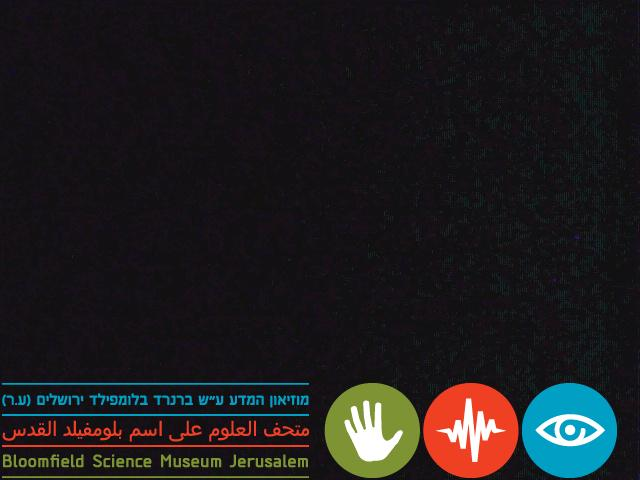
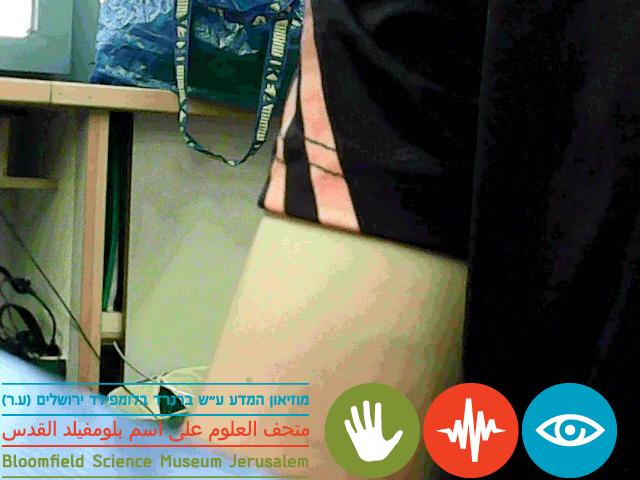
working version, everything is ready to send back sms to the client (except for the class that does the actual listening to the sms)

diff --git a/main.py b/main.py
@@ -16,7 +16,7 @@ from uploadOneFile import uploadToGoogleDriveServerWithDaemon
 from basic_html_server import init_server_on_different_thread, get_download_url, close_server
 import threading
 
-current_image = camera_imgtk = downtext_frame = cap = None
+current_image = camera_imgtk = camera1_imgtk = camera2_imgtk = downtext_frame = cap = None
 current_id, seconds_since_last_snapshot, current_clock_cicle, frames_left_to_camera_png = 0, 0, 0, 0
 
 
@@ -45,7 +45,7 @@ def init_clock():
     root.after(TIME_CLOCK_CICLE_MS, clock)
 
 def init_gui():
-    global current_id, root, picture_streaming_label, preview_pics_canvases, preview_frame, camera_imgtk, downtext_frame
+    global current_id, root, picture_streaming_label, preview_pics_canvases, preview_frame, camera_imgtk, camera1_imgtk, camera2_imgtk, downtext_frame
 
 
     # load next id
@@ -77,7 +77,7 @@ def init_gui():
         pic_canvas.grid(row = index, column = 0, sticky = 'N')
         preview_pics_canvases.append(pic_canvas)
 
-    for img_id, preview_canvas in zip(reversed(range(current_id)), reversed(preview_pics_canvases)):
+    for img_id, preview_canvas in zip(reversed(range(current_id)),preview_pics_canvases):
         print "img_id is", img_id
         preview_canvas.showImageFromId(img_id)
 
@@ -89,6 +89,17 @@ def init_gui():
     camera_png = Image.open(PATH_CAMERA_PICTURE)
     camera_resized = camera_png.resize(SIZE_STREAMING, Image.ANTIALIAS)
     camera_imgtk = ImageTk.PhotoImage(camera_resized)
+    camera_png.close()
+
+    # prepare the camera animation
+    camera_png = Image.open(PATH_CAMERA_PICTURE1)
+    camera_resized = camera_png.resize(SIZE_STREAMING, Image.ANTIALIAS)
+    camera1_imgtk = ImageTk.PhotoImage(camera_resized)
+    camera_png.close()
+
+    camera_png = Image.open(PATH_CAMERA_PICTURE2)
+    camera_resized = camera_png.resize(SIZE_STREAMING, Image.ANTIALIAS)
+    camera2_imgtk = ImageTk.PhotoImage(camera_resized)
     camera_png.close()
 
 
@@ -106,9 +117,10 @@ def init_camera():
 def show_frame(camera = False):
     global current_image, picture_streaming_label, frames_left_to_camera_png
     if frames_left_to_camera_png > 0:
+        camera_tk = camera2_imgtk if frames_left_to_camera_png % 2 else camera1_imgtk
         frames_left_to_camera_png -= 1
-        picture_streaming_label.imgtk = camera_imgtk
-        picture_streaming_label.configure(image=camera_imgtk)
+        picture_streaming_label.imgtk = camera_tk
+        picture_streaming_label.configure(image=camera_tk)
         return
 
     _, frame = cap.read()
@@ -140,9 +152,11 @@ def take_snapshot():
     background.paste(foreground, (posx,  posy), foreground)
     background.save(filename)
 
-
+    widget_id = get_view_id_from_picture_id(current_id)
     print filename
-    print get_download_url(current_id)
+    print get_download_url(current_id), "is on preview id", widget_id
+    print "if client will send SMS with number", widget_id, "he will get the path - "
+    print revert_get_html_path_from_widget_id(widget_id)
 
     # update it on the screen
     update_screen_picture_added(current_id) # last picture taken
@@ -167,19 +181,22 @@ def update_screen_picture_added(picture_id):
     global preview_pics_canvases
     w,h = SIZE_PREVIEW
 
-    for index in range(NUMBER_OF_PREVIEW_PICS - 1): # without the last one
+    for index in reversed(range(1, NUMBER_OF_PREVIEW_PICS)): # without the first one
         fr_canvas = preview_pics_canvases[index]
-        sc_canvas = preview_pics_canvases[index + 1]
+        sc_canvas = preview_pics_canvases[index - 1]
         fr_canvas.mirrorizeOtherPP(sc_canvas)
 
-    canvas = preview_pics_canvases[-1] # last one
+    canvas = preview_pics_canvases[0] # last one
     canvas.showImageFromId(picture_id)
 
+def revert_get_html_path_from_widget_id(widget_id):
+    cur_empty_widget = get_view_id_from_picture_id(current_id)
+    if cur_empty_widget < widget_id: cur_empty_widget += (NUMBER_OF_PREVIEW_PICS + 1)
+    offset = cur_empty_widget - widget_id
+    img_possible_id = current_id - offset
+    # possible because there is no guarantee that the user didn't wait half an hour before sending the SMS
 
-
-
-    pass # TODO: continue
-
+    return get_download_url(img_possible_id)
 
 def quit_everything(event):
     root.quit()

diff --git a/basic_html_server.py b/basic_html_server.py
@@ -7,13 +7,17 @@ import threading
 import socket
 
 HOST_NAME = '' # that means localhost
-MY_IP = ""
+EXTERNAL_IP = ""
+INTERNAL_IP = ""
 
 httpd = None # object to use on close
 
 ''' string!! '''
 def get_ip():
-    return MY_IP
+    global EXTERNAL_IP, INTERNAL_IP
+    if EXTERNAL_IP:
+        return EXTERNAL_IP
+    return INTERNAL_IP
 
 ''' integer!! '''
 def get_port():
@@ -21,11 +25,12 @@ def get_port():
 
 ''' string!! '''
 def get_download_url(img_id):
-    return "http://" + MY_IP + ":" + str(PORT_NUMBER) + "/" + str(img_id)
+    ip = EXTERNAL_IP if EXTERNAL_IP else INTERNAL_IP
+    return "http://" + ip + ":" + str(PORT_NUMBER) + "/" + str(img_id) + ".jpg"
 
 def refresh_my_ip():
-    global MY_IP
-    MY_IP = ipgetter.myip()
+    global EXTERNAL_IP
+    EXTERNAL_IP = ipgetter.myip()
 
 def to_real_path(path_from_client):
     return "pic/" + path_from_client
@@ -76,12 +81,13 @@ class MyHandler(BaseHTTPServer.BaseHTTPRequestHandler):
         print "file %s has finished serving!" % (filepath)
 
 def init_server():
-    global httpd, MY_IP
+    global httpd, EXTERNAL_IP, INTERNAL_IP
 #    MY_IP = ipgetter.myip()
     server_class = BaseHTTPServer.HTTPServer
     httpd = server_class((HOST_NAME, PORT_NUMBER), MyHandler)
-    print time.asctime(), "Server Starts - %s %s:%s" % (HOST_NAME, MY_IP, PORT_NUMBER)
-    print "local ip: %s" % [(s.connect(('8.8.8.8', 80)), s.getsockname()[0], s.close()) for s in [socket.socket(socket.AF_INET, socket.SOCK_DGRAM)]][0][1]
+    print time.asctime(), "Server Starts - %s %s:%s" % (HOST_NAME, EXTERNAL_IP, PORT_NUMBER)
+    INTERNAL_IP = [(s.connect(('8.8.8.8', 80)), s.getsockname()[0], s.close()) for s in [socket.socket(socket.AF_INET, socket.SOCK_DGRAM)]][0][1]
+    print "local ip: %s" % INTERNAL_IP
     try:
         httpd.serve_forever()
     except KeyboardInterrupt:
@@ -98,5 +104,5 @@ def close_server():
     if httpd is None: return
 
     httpd.server_close()
-    print time.asctime(), "Server stops - %s %s:%s" % (HOST_NAME, MY_IP, PORT_NUMBER)
+    print time.asctime(), "Server stops - %s %s:%s" % (HOST_NAME, EXTERNAL_IP, PORT_NUMBER)
 

diff --git a/previewPicture.py b/previewPicture.py
@@ -31,6 +31,7 @@ class PreviewPicture(Canvas):
         self.imgtk = otherPP.imgtk
         self.create_image(0,0,image = self.imgtk, tags = "IMG")
         self.configIdViewer()
+        self.startDownAnimation()
 
     def showImageFromId(self, img_id):
         self.img_id = img_id
@@ -47,3 +48,23 @@ class PreviewPicture(Canvas):
 
     def getPath(self):
         return get_picture_path(self.img_id)
+
+    def startDownAnimation(self):
+        return # TODO: maybe not even needed
+        print "starting...", str(self.preview_id)
+        moveX, moveY  = 0, -DIM_PREVIEW_HEIGHT
+        self.move(self.id_viewer, moveX, moveY)
+        self.move(self.imgtk, moveX, moveY)
+        self.after(50, PreviewPicture.move_down, (self,DIM_PREVIEW_HEIGHT))
+        print "finished...",  str(self.preview_id)
+
+
+    ''' move the picture down a little bit '''
+    def move_down(self, n):
+        if (n <= 0):
+            return
+        moveX, moveY  = 0, 20
+        self.move(self.id_viewer, moveX, moveY)
+        self.move(self.imgtk, moveX, moveY)
+        self.after(50, PreviewPicture.move_down, (self, n - moveY))
+

diff --git a/constants.py b/constants.py
@@ -3,7 +3,7 @@ __author__ = 'reem'
 # constants
 
 WEBCAM_ID = 1
-TIME_SECONDS_FOR_CAPTURE_SNAPSHOT_CIRCLE = 5 # in seconds
+TIME_SECONDS_FOR_CAPTURE_SNAPSHOT_CIRCLE = 4 # in seconds
 NUMBER_OF_PREVIEW_PICS = 5
 DIM_PREVIEW_WIDTH = 160
 DIM_PREVIEW_HEIGHT = 120
@@ -15,6 +15,8 @@ PATH_PROPERTY_CUR_ID = "extra_files/current_avail_id"
 PATH_BLANK_PICTURE = "extra_files/blank.jpg"
 PATH_MUSEUM_LOGO = "extra_files/mada_jerusalem_logo_COLOR_WIDE_WEB.png"
 PATH_CAMERA_PICTURE = "extra_files/camera.png"
+PATH_CAMERA_PICTURE1 = "extra_files/camera_arrow_1.png"
+PATH_CAMERA_PICTURE2 = "extra_files/camera_arrow_2.png"
 PATH_FOLDER_OF_PICTURES = "pic"
 DIM_MUSEUM_LOGO_HEIGHT = 99
 ORDER_CALL_PYTHON_UPLOADER = "python uploadOneFile.py"
@@ -26,3 +28,4 @@ FONT_DOWNTEXT_FONT = ("serif", 40)
 
 # lambda functions
 get_picture_path = lambda pic_id : PATH_FOLDER_OF_PICTURES + "/" + str(pic_id) + ".jpg"
+get_view_id_from_picture_id = lambda pic_id : (pic_id % (NUMBER_OF_PREVIEW_PICS +1)) + 1
